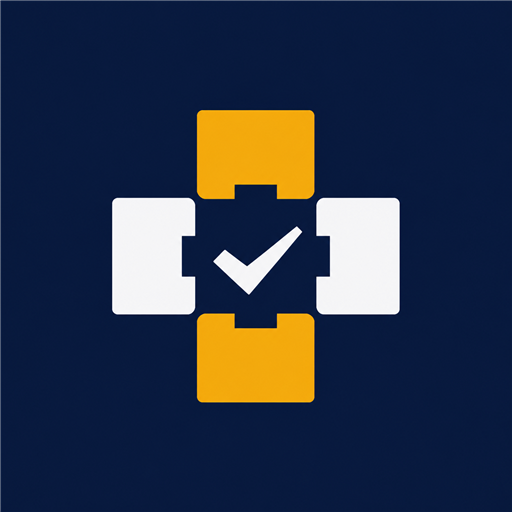
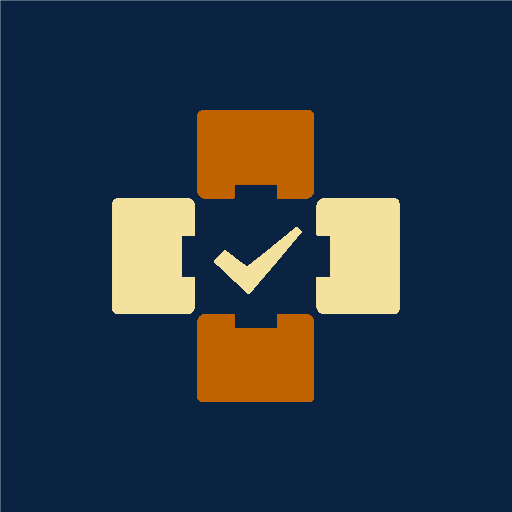
Unify colors with a Sanzo Wada palette

Changed region(s): [[0.2188, 0.1875, 0.7812, 0.8125]]

diff --git a/styles.css b/styles.css
@@ -9,37 +9,40 @@
 @import url('https://fonts.googleapis.com/css2?family=Public+Sans:wght@400;500;600;700&family=IBM+Plex+Mono:wght@400;500;600&display=swap');
 
 :root {
-  /* ---- Paleta: papel frío + tinta institucional + faro ámbar ---- */
-  --bg: #F5F7FA;
+  /* ---- Paleta: papel marfil + tinta slate + acentos terrosos ---- */
+  /* Sanzo Wada 243 + 245: Slate, Ivory Buff, Raw Sienna, Olive, Dark Tyrian y Carmine. */
+  --bg: #F6F3E9;
   --surface: #FFFFFF;
-  --surface-2: #EEF2F6;
-  --ink: #172033;
-  --ink-2: #526176;
-  --ink-3: #6B788B;
-  --border: #E2E7ED;
-  --border-strong: #CCD4DE;
+  --surface-2: #F0EEE5;
+  --ink: #1B3644;
+  --ink-2: #52616A;
+  --ink-3: #6B7680;
+  --border: #DEDDD5;
+  --border-strong: #C6C5BB;
 
-  --navy: #12355B;
-  --navy-2: #1E5A91;
-  --navy-ink: #F2F5FA;
+  --navy: #0D2B52;
+  --navy-2: #1B3644;
+  --navy-ink: #FFFFFF;
+  --navy-muted: #C5D0DB;
+  --navy-dim: #9FB0C0;
 
-  --beacon: #D99618;
-  --beacon-ink: #7A5208;
-  --beacon-soft: #FFF4DA;
+  --beacon: #B85E00;
+  --beacon-ink: #874500;
+  --beacon-soft: #F8E9D7;
 
-  --ok: #2C7A57;
-  --ok-soft: #E1F1E8;
-  --warn: #C1791F;
-  --warn-ink: #8C5411;
-  --warn-soft: #FBEED9;
-  --bad: #B03A34;
-  --bad-soft: #FBE4E2;
+  --ok: #58771E;
+  --ok-soft: #EDF2E3;
+  --warn: #B85E00;
+  --warn-ink: #874500;
+  --warn-soft: #F8E9D7;
+  --bad: #A10B2B;
+  --bad-soft: #F6E3E7;
 
   --radius-sm: 9px;
   --radius: 14px;
   --radius-lg: 20px;
-  --shadow-1: 0 1px 2px rgba(18,35,55,.05), 0 6px 18px rgba(18,35,55,.04);
-  --shadow-2: 0 18px 48px -18px rgba(18,35,55,.30);
+  --shadow-1: 0 1px 2px rgba(27,54,68,.05), 0 6px 18px rgba(27,54,68,.05);
+  --shadow-2: 0 18px 48px -18px rgba(13,43,82,.30);
 
   --font-display: 'Public Sans', -apple-system, BlinkMacSystemFont, 'Segoe UI', sans-serif;
   --font-sans: 'Public Sans', -apple-system, BlinkMacSystemFont, 'Segoe UI', sans-serif;
@@ -49,30 +52,32 @@
 }
 
 :root.dark {
-  --bg: #0C1017;
-  --surface: #131924;
-  --surface-2: #1A2230;
-  --ink: #E9EDF3;
-  --ink-2: #A7B2C2;
-  --ink-3: #8391A5;
-  --border: #232C3B;
-  --border-strong: #2C3648;
+  --bg: #071724;
+  --surface: #0D2B52;
+  --surface-2: #1B3644;
+  --ink: #FFF9E8;
+  --ink-2: #CED5D4;
+  --ink-3: #AAB6B8;
+  --border: #29495A;
+  --border-strong: #3C5C6B;
 
-  --navy: #0A1220;
-  --navy-2: #142543;
-  --navy-ink: #E9EDF3;
+  --navy: #061B35;
+  --navy-2: #0D2B52;
+  --navy-ink: #FFFFFF;
+  --navy-muted: #C5D0DB;
+  --navy-dim: #9FB0C0;
 
-  --beacon: #E8B33E;
-  --beacon-ink: #FBE7B8;
-  --beacon-soft: #2C230F;
+  --beacon: #EBD999;
+  --beacon-ink: #EBD999;
+  --beacon-soft: #392B17;
 
-  --ok: #49A57C;
-  --ok-soft: #10261C;
-  --warn: #D79A3C;
-  --warn-ink: #E8B33E;
-  --warn-soft: #2C220F;
-  --bad: #DC6B62;
-  --bad-soft: #2C1512;
+  --ok: #A2B96C;
+  --ok-soft: #1E3217;
+  --warn: #D99045;
+  --warn-ink: #F0C58D;
+  --warn-soft: #392615;
+  --bad: #E27389;
+  --bad-soft: #3B1720;
 
   --shadow-2: 0 20px 44px -16px rgba(0,0,0,.55);
   color-scheme: dark;
@@ -97,10 +102,10 @@ a { color: inherit; }
 /* ------------------------------ Layout raíz ------------------------------ */
 .app { display: flex; min-height: 100vh; }
 .sidebar {
-  width: 272px; flex: none; background: linear-gradient(180deg, #12355B 0%, #0E2B4B 100%); color: var(--navy-ink);
+  width: 272px; flex: none; background: linear-gradient(180deg, #0D2B52 0%, #0A2343 100%); color: var(--navy-ink);
   display: flex; flex-direction: column; padding: 22px 16px; gap: 4px;
   position: sticky; top: 0; height: 100vh; overflow-y: auto;
-  box-shadow: 8px 0 28px rgba(18,53,91,.08); z-index: 2;
+  box-shadow: 8px 0 28px rgba(13,43,82,.10); z-index: 2;
 }
 .main { flex: 1; min-width: 0; display: flex; flex-direction: column; }
 .topbar { display: none; }
@@ -131,7 +136,7 @@ a { color: inherit; }
 .brand-mark.sm { width: 32px; height: 32px; }
 .brand-mark img, .lock-mark img { width: 100%; height: 100%; object-fit: cover; }
 .brand-name { font-family: var(--font-display); font-weight: 700; font-size: 17px; letter-spacing: -.01em; }
-.brand-sub { font-size: 11px; color: rgba(242,245,250,.6); letter-spacing: .03em; text-transform: uppercase; }
+.brand-sub { font-size: 11px; color: var(--navy-muted); letter-spacing: .03em; text-transform: uppercase; }
 
 /* ------------------------------ Selector de droguería ------------------------------ */
 .dg-switch {
@@ -146,18 +151,18 @@ a { color: inherit; }
 }
 .dg-txt { min-width: 0; flex: 1; }
 .dg-name { font-size: 13px; font-weight: 600; white-space: nowrap; overflow: hidden; text-overflow: ellipsis; }
-.dg-ruc { font-size: 11px; color: rgba(242,245,250,.55); }
-.chev { color: rgba(242,245,250,.5); flex: none; }
+.dg-ruc { font-size: 11px; color: var(--navy-muted); }
+.chev { color: var(--navy-dim); flex: none; }
 
 /* ------------------------------ Navegación ------------------------------ */
 .nav { display: flex; flex-direction: column; gap: 2px; flex: 1; }
 .nav-item {
   display: flex; align-items: center; gap: 11px; padding: 10px 10px; border-radius: var(--radius-sm);
-  background: transparent; border: none; color: rgba(242,245,250,.72); font-size: 13.5px; font-weight: 500;
+  background: transparent; border: none; color: var(--navy-muted); font-size: 13.5px; font-weight: 500;
   text-align: left; position: relative; transition: background .15s, color .15s;
 }
 .nav-item:hover { background: rgba(255,255,255,.06); color: var(--navy-ink); }
-.nav-item.active { background: rgba(222,159,38,.16); color: var(--beacon); font-weight: 600; }
+.nav-item.active { background: rgba(235,217,153,.14); color: #FFF4D0; font-weight: 700; }
 .nav-item.active::before { content: ''; position: absolute; left: 0; width: 3px; height: 20px; border-radius: 0 3px 3px 0; background: var(--beacon); }
 .ni-ico { flex: none; }
 .ni-badge {
@@ -167,10 +172,10 @@ a { color: inherit; }
 .sidebar-foot { display: flex; flex-direction: column; gap: 2px; padding-top: 10px; border-top: 1px solid rgba(255,255,255,.08); }
 .side-mini {
   display: flex; align-items: center; gap: 10px; padding: 9px 10px; border-radius: var(--radius-sm);
-  background: transparent; border: none; color: rgba(242,245,250,.68); font-size: 13px; text-align: left;
+  background: transparent; border: none; color: var(--navy-muted); font-size: 13px; text-align: left;
 }
 .side-mini:hover { background: rgba(255,255,255,.06); color: var(--navy-ink); }
-.kbd { margin-left: auto; font-size: 10.5px; color: rgba(242,245,250,.4); }
+.kbd { margin-left: auto; font-size: 10.5px; color: var(--navy-dim); }
 
 /* ------------------------------ Barra superior móvil ------------------------------ */
 .top-mid { flex: 1; min-width: 0; }
@@ -216,9 +221,9 @@ a { color: inherit; }
   min-height: 40px;
 }
 .btn:active { transform: scale(.98); }
-.btn-primary { background: var(--navy-2); color: #fff; box-shadow: 0 5px 14px rgba(30,90,145,.18); }
+.btn-primary { background: var(--navy); color: #fff; box-shadow: 0 5px 14px rgba(13,43,82,.18); }
 :root.dark .btn-primary { background: var(--beacon); color: var(--navy); }
-.btn-primary:hover { background: #174B7B; transform: translateY(-1px); box-shadow: 0 8px 18px rgba(30,90,145,.22); }
+.btn-primary:hover { background: var(--navy-2); transform: translateY(-1px); box-shadow: 0 8px 18px rgba(13,43,82,.22); }
 :root.dark .btn-primary:hover { filter: brightness(1.08); }
 .btn-ghost { background: var(--surface); color: var(--ink); border-color: var(--border-strong); }
 .btn-ghost:hover { background: var(--surface-2); }
@@ -248,7 +253,7 @@ a { color: inherit; }
 .beacon-msg.good { color: var(--ok); } .beacon-msg.warn { color: var(--beacon-ink); } .beacon-msg.bad { color: var(--bad); }
 .beacon-break { display: flex; flex-direction: column; gap: 6px; font-size: 12.5px; color: var(--ink-2); }
 .bk-dot { display: inline-block; width: 8px; height: 8px; border-radius: 2px; margin-right: 7px; transform: rotate(45deg); }
-.bk-dot.doc { background: #4B6FA6; } .bk-dot.cap { background: #7A5FB0; } .bk-dot.insp { background: #B0714B; }
+.bk-dot.doc { background: #0D2B52; } .bk-dot.cap { background: #58771E; } .bk-dot.insp { background: #B85E00; }
 
 /* ------------------------------ Tarjetas de estadística ------------------------------ */
 .stats { display: grid; grid-template-columns: repeat(3, 1fr); gap: 12px; margin-bottom: 26px; }
@@ -279,7 +284,7 @@ a { color: inherit; }
 .row:hover { border-color: var(--border-strong); box-shadow: var(--shadow-1); }
 .row-top { display: flex; align-items: stretch; gap: 0; cursor: pointer; padding: 3px 0; }
 .chan { width: 4px; flex: none; border-radius: 4px; margin: 10px 0 10px 10px; }
-.chan.doc { background: #4B6FA6; } .chan.cap { background: #7A5FB0; } .chan.insp { background: #B0714B; }
+.chan.doc { background: #0D2B52; } .chan.cap { background: #58771E; } .chan.insp { background: #B85E00; }
 .row-main { flex: 1; min-width: 0; padding: 12px 14px; }
 .row-code { font-size: 11.5px; color: var(--ink-3); margin-bottom: 3px; }
 .row-name { font-size: 14px; font-weight: 600; }
@@ -521,7 +526,7 @@ textarea.inp { min-height: 88px; resize: vertical; }
 .bell-btn { margin-left: auto; position: relative; width: 32px; height: 32px; border-radius: 9px; background: rgba(255,255,255,.06); border: none; color: rgba(242,245,250,.75); display: flex; align-items: center; justify-content: center; flex: none; }
 .bell-btn:hover { background: rgba(255,255,255,.1); color: var(--navy-ink); }
 .bell-badge {
-  position: absolute; top: -4px; right: -4px; background: #B8352E; color: #fff; font-size: 10px; font-weight: 700;
+  position: absolute; top: -4px; right: -4px; background: var(--bad); color: #fff; font-size: 10px; font-weight: 700;
   min-width: 16px; height: 16px; border-radius: 999px; display: flex; align-items: center; justify-content: center; padding: 0 3px;
   border: 2px solid var(--navy);
 }
@@ -558,18 +563,18 @@ textarea.inp { min-height: 88px; resize: vertical; }
   box-shadow: var(--shadow-1);
 }
 .beacon-card { border-color: transparent; }
-.stat:hover, .row:hover { border-color: #C8D5E2; box-shadow: 0 10px 28px rgba(18,53,91,.08); transform: translateY(-2px); }
+.stat:hover, .row:hover { border-color: #BABCB4; box-shadow: 0 10px 28px rgba(27,54,68,.08); transform: translateY(-2px); }
 .row-top:focus-visible { outline: 2px solid var(--navy-2); outline-offset: -3px; }
-.pill:hover { border-color: #AFC0D1; background: #F9FBFD; }
-.pill.active { box-shadow: 0 5px 14px rgba(18,53,91,.16); }
-.search-input { box-shadow: 0 1px 2px rgba(18,35,55,.03); transition: border-color .18s ease, box-shadow .18s ease; }
-.search-input:focus-within { border-color: var(--navy-2); box-shadow: 0 0 0 3px rgba(30,90,145,.12); }
-.inp { background: #FAFBFC; }
-.inp:hover { border-color: #AFC0D1; }
+.pill:hover { border-color: #AFB3AA; background: #FBFAF5; }
+.pill.active { box-shadow: 0 5px 14px rgba(13,43,82,.16); }
+.search-input { box-shadow: 0 1px 2px rgba(27,54,68,.03); transition: border-color .18s ease, box-shadow .18s ease; }
+.search-input:focus-within { border-color: var(--navy); box-shadow: 0 0 0 3px rgba(13,43,82,.12); }
+.inp { background: #FBFAF5; }
+.inp:hover { border-color: #AFB3AA; }
 .inp:focus { background: var(--surface); }
 .dialog-card { border: 1px solid rgba(204,212,222,.75); }
 .panel { border-left: 1px solid var(--border); }
-.authscreen { background: radial-gradient(circle at 50% 10%, #FFFFFF 0%, #EEF3F8 55%, #E3EBF3 100%); color: var(--ink); }
+.authscreen { background: radial-gradient(circle at 50% 10%, #FFFFFF 0%, #F6F3E9 58%, #EDE6D2 100%); color: var(--ink); }
 .auth-card { border: 1px solid rgba(204,212,222,.8); }
 
 @media (max-width: 920px) {

diff --git a/sw.js b/sw.js
@@ -3,7 +3,7 @@
    Service worker cache-first: deja la app utilizable sin conexión una vez
    que se visitó al menos una vez servida por http(s).
    ========================================================================== */
-var CACHE = 'bpa-plus-v8';
+var CACHE = 'bpa-plus-v9';
 var ASSETS = [
   './', './index.html', './styles.css', './manifest.json',
   './js/config.js', './js/cloud.js', './js/auth.js', './js/domain.js', './js/db.js', './js/ui.js', './js/actas.js', './js/views.js', './js/lock.js', './js/drive.js', './js/alerts.js', './js/app.js',

diff --git a/index.html b/index.html
@@ -3,7 +3,7 @@
 <head>
   <meta charset="utf-8">
   <meta name="viewport" content="width=device-width, initial-scale=1, viewport-fit=cover">
-  <meta name="theme-color" id="themeColor" content="#F5F7FA">
+  <meta name="theme-color" id="themeColor" content="#F6F3E9">
   <meta name="description" content="BPA-Plus — gestión de Buenas Prácticas de Almacenamiento con sincronización segura y acceso sin conexión.">
   <title>BPA-Plus · Gestión BPA</title>
   <link rel="icon" type="image/png" sizes="192x192" href="icons/icon-192.png">

diff --git a/js/app.js b/js/app.js
@@ -214,7 +214,7 @@
   function applyTheme(t) {
     document.documentElement.classList.toggle('dark', t === 'dark');
     var meta = document.getElementById('themeColor');
-    if (meta) meta.content = t === 'dark' ? '#0A1220' : '#F5F7FA';
+    if (meta) meta.content = t === 'dark' ? '#071724' : '#F6F3E9';
     try { localStorage.setItem(THEME_KEY, t); } catch (e) {}
   }
   function toggleTheme() { applyTheme(isDark() ? 'light' : 'dark'); renderChrome(); }
